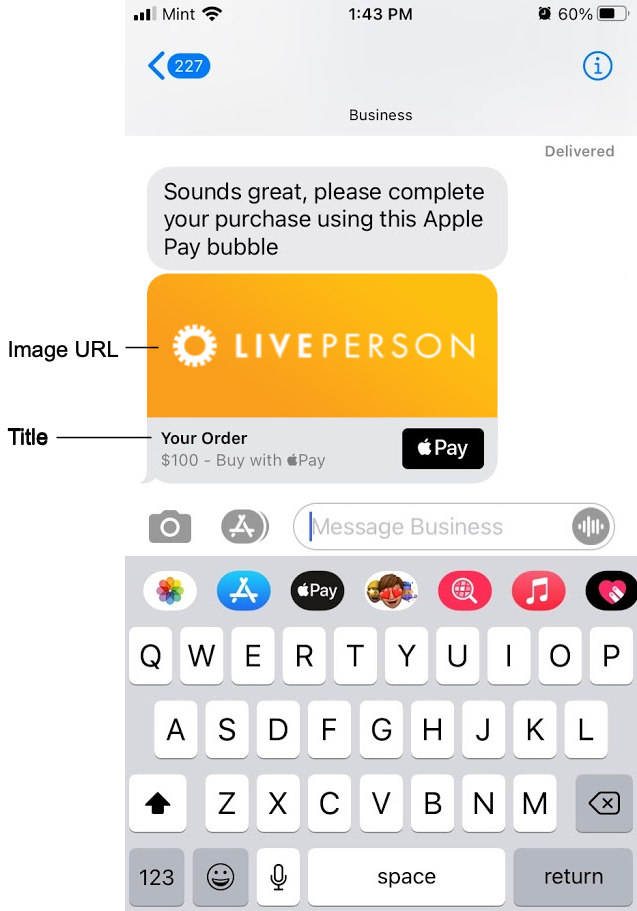
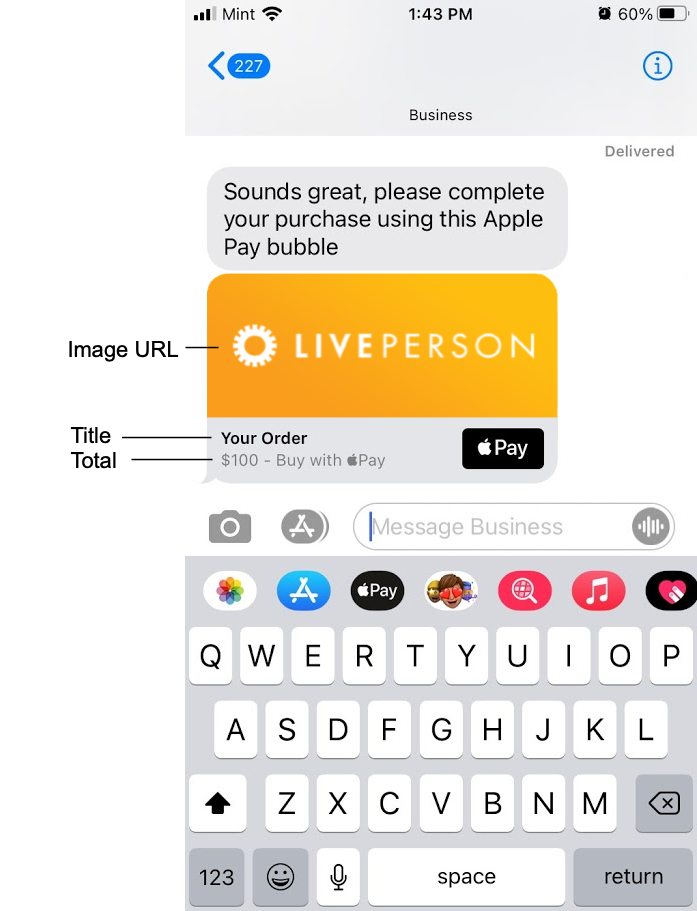
Integrate feedback from SME

diff --git a/pages/Documents/ConversationalAI/ConversationBuilder/Interactions/integrations.md b/pages/Documents/ConversationalAI/ConversationBuilder/Interactions/integrations.md
@@ -322,7 +322,7 @@ Once this setup is completed, you can add the Apple Pay integration to your bot 
 
 <img class="fancyimage" style="width:600px" src="img/ConvoBuilder/integrations_applepay1.png">
 <br>
-<img style="width:350px" src="img/ConvoBuilder/integrations_applepay3.png">
+<img style="width:400px" src="img/ConvoBuilder/integrations_applepay3.png">
 <br>
 <img style="width:450px" src="img/ConvoBuilder/integrations_applepay4.png">
 
@@ -335,7 +335,7 @@ Once this setup is completed, you can add the Apple Pay integration to your bot 
 | Title | The title of the Apple Pay bubble. | Required | Your order |
 | Item name | A short description of the item. You can specify a botContext or integration variable name. You can also express these using an array enumerator, i.e., specify the variable using “i” as the index. | Required | {applePayData.lineItems[i]} |
 | Item price | The amount of the item. You can specify a botContext or integration variable name. You can also express these using an array enumerator, i.e., specify the variable using “i” as the index. | Required | {applePayData.itemPrices[i]} |
-| Total | The total amount for all items. You can specify a botContext or integration variable name. | Required | {$botContext.total} |
+| Total | The total amount for all items, in effect, the subtotal (minus tax). You can specify a botContext or integration variable name. | Required | {$botContext.total} |
 
 ##### Advanced interaction settings
 
